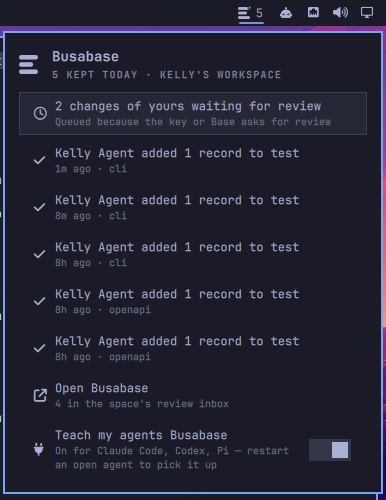
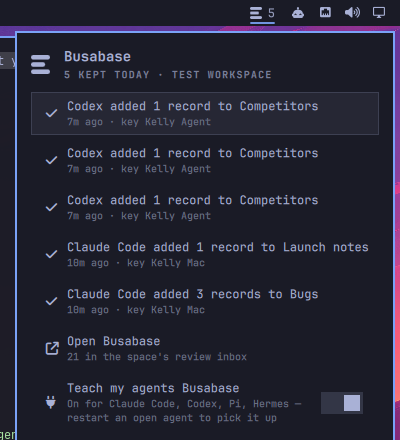
docs: real launch-week screenshots — named agents, +1 animation, four themes
Shot on Omarchy 4.0.2 in a fresh day of work: Codex (in the terminal) saved
three competitors and Claude Code logged bugs and launch notes; busabase-cli
0.98 names each agent, so every row reads 'Codex added…' / 'Claude Code
added…'. Adds the +1 as a looping GIF and the panel in Tokyo Night,
Catppuccin Latte, Gruvbox and Rose Pine. No code changes.

Changed region(s): [[0.0, 0.0, 1.0, 1.0], [0.7772, 0.8568, 0.9326, 0.9455]]

diff --git a/README.md b/README.md
@@ -2,7 +2,7 @@
 
 **Your agents' work, kept.**
 
-![Codex saves a record to Busabase; the Omarchy bar counts it and the panel lists what your agents kept today](preview.png)
+![Codex saves three competitors to Busabase in a terminal; the Omarchy bar counts what Codex and Claude Code kept today](preview.png)
 
 Claude Code and Codex do real work — research, lists, decisions — and it usually
 evaporates when the session closes. With [Busabase](https://busabase.com) your
@@ -13,7 +13,7 @@ puts it in your Omarchy bar.
   count flashes `+1` and settles on the new total. No toast, no sound — work your
   agents do on their own should be visible, not interrupting.
 
-  ![The bar goes 1, +1, 2 as an agent saves a record](assets/plus-one.png)
+  ![The bar goes 5, +1, 6 as an agent saves a record](assets/plus-one.gif)
 
 - **What was kept, in plain words.** Open the panel: *"Codex added 1 record to
   Bugs · 5m ago"* — named after the agent client, or the API key it used. Enter
@@ -26,6 +26,9 @@ puts it in your Omarchy bar.
   places Omarchy links its own skill. Switch it off and the links are gone.
 - **Cloud or local.** Works with Busabase Cloud, a self-hosted server, or the open
   source server on your own machine (`busabase server`, no account needed).
+- **Wears every Omarchy theme.** Colors come from your theme, light or dark.
+
+  ![The panel in Tokyo Night, Catppuccin Latte, Gruvbox and Rose Pine](assets/themes.png)
 
 ## Install
 
@@ -57,7 +60,7 @@ that is already open so it picks up the skill.
 **3. Ask an agent to keep something.** *"Save this week's competitor notes to
 Busabase."* When it lands, the bar flashes `+1`, and the panel lists it:
 
-![The panel: today's count, a change waiting for review, and what your agents kept](assets/panel.png)
+![The panel: what Codex and Claude Code kept today, each named after the agent that saved it](assets/panel.png)
 
 ## Keys
 
